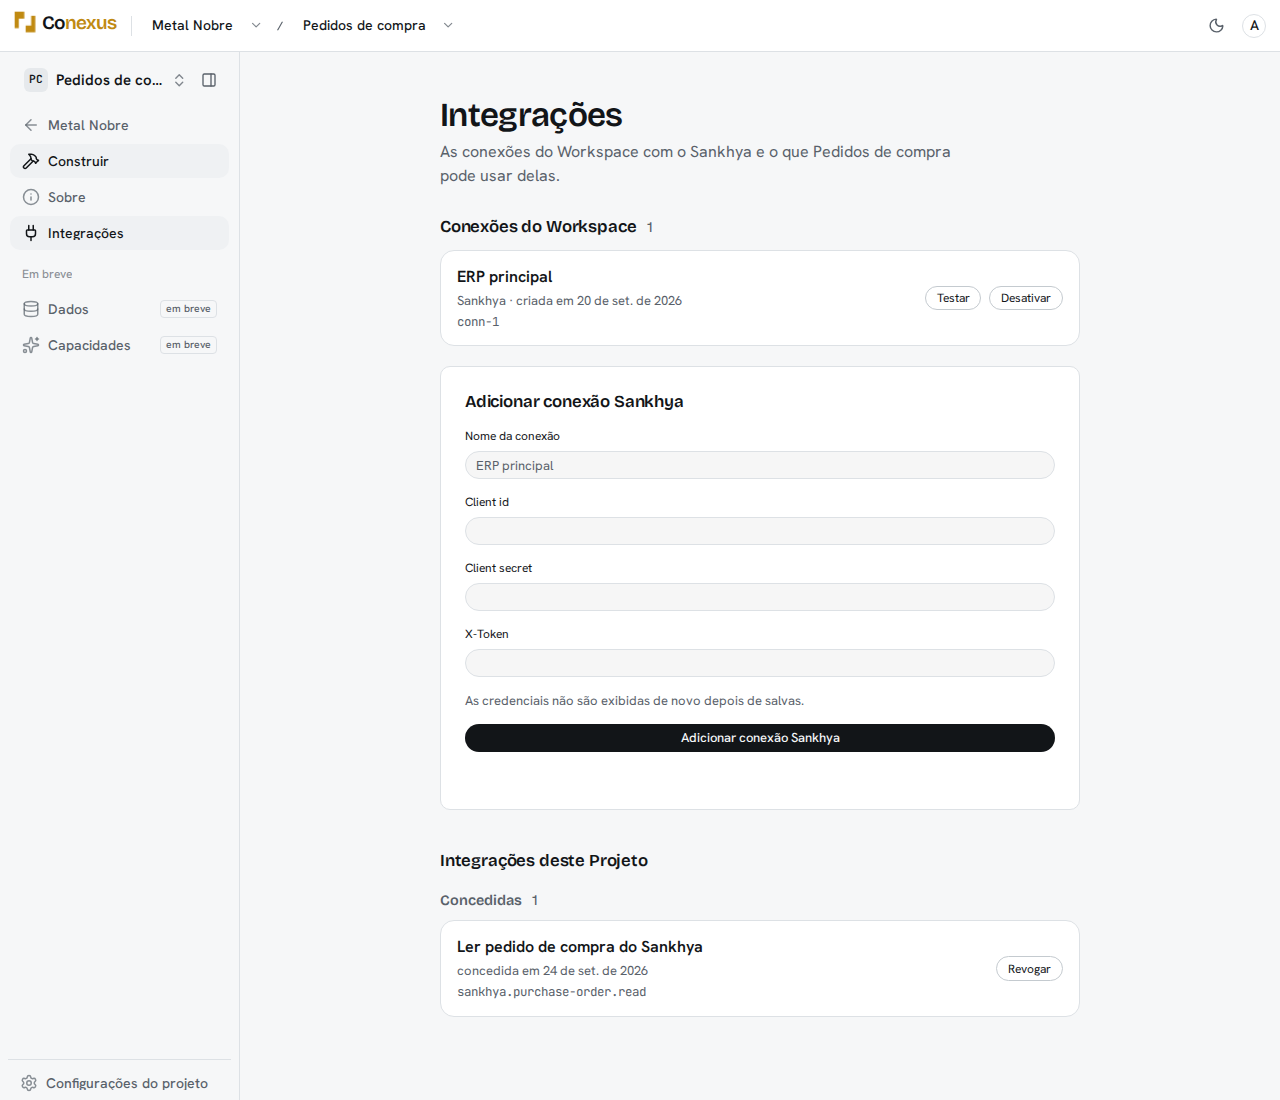
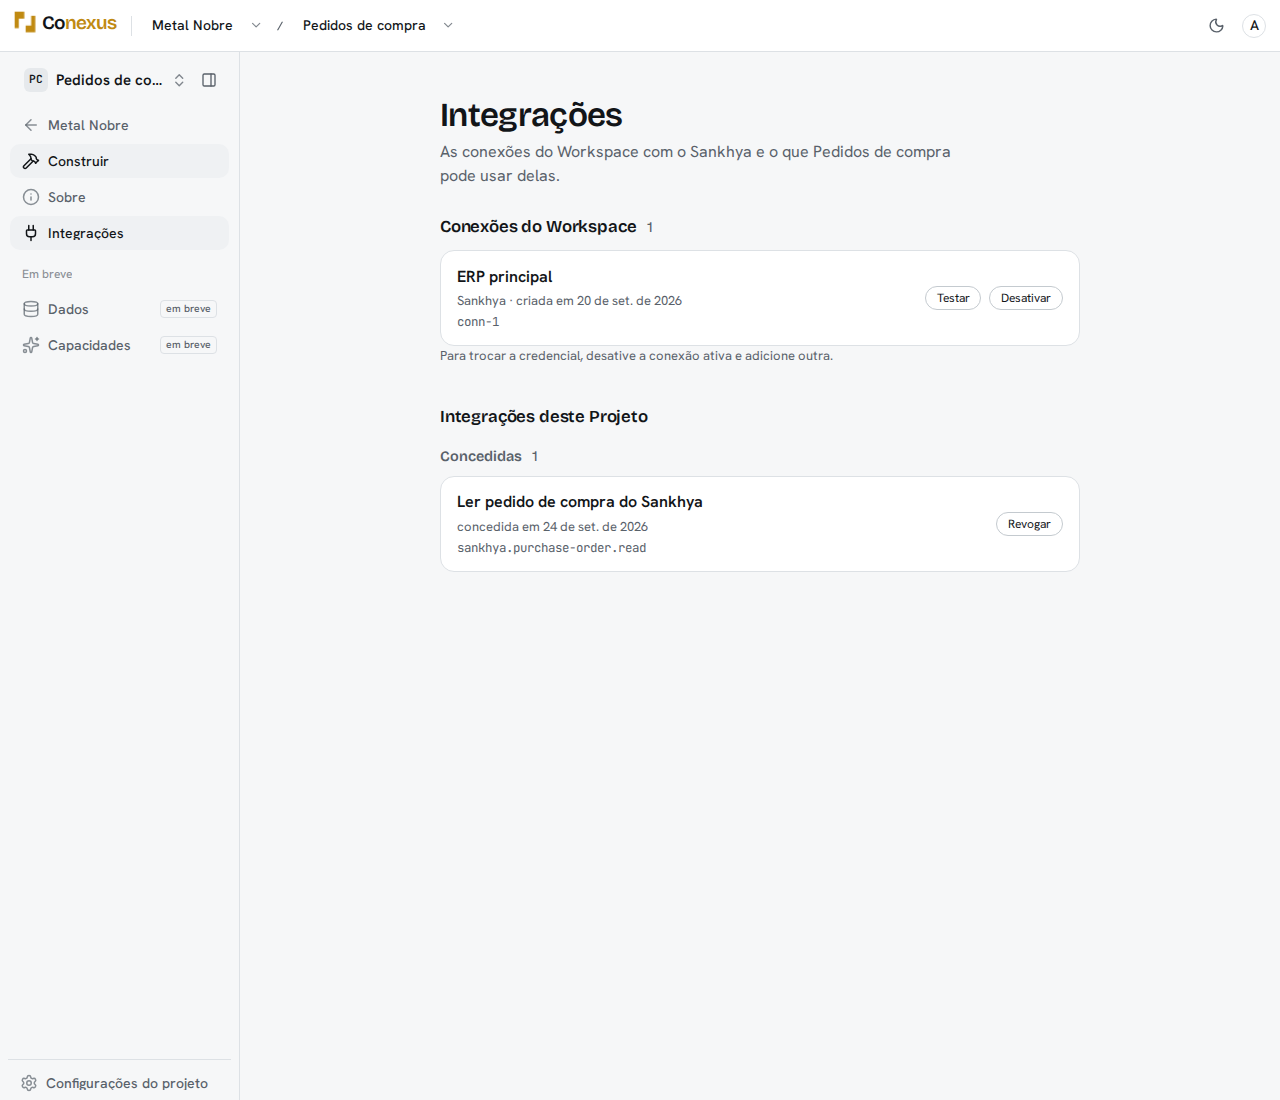
fix(connector): answer a second open Connection with 409 and hide the form while one is open
A second open Sankhya Connection in one Workspace hit the connection_open_key
index and surfaced as a 500. The route now maps it to the connector conflict,
and the screen offers the form only when no Connection is open: rotating a
credential is disable plus create.

Claude-Session: https://claude.ai/code/session_01DvHJXhmaVp1AfNyGBLyCdQ

diff --git a/apps/hub/src/connectors/model.ts b/apps/hub/src/connectors/model.ts
@@ -54,5 +54,9 @@ export const isConnectorConnectionNotAvailable = (error: unknown): boolean =>
   typeof error === 'object' && error !== null && 'code' in error && error.code === 'P0002' &&
   'message' in error && error.message === 'CONNECTOR_CONNECTION_NOT_AVAILABLE'
 
+// A retry that differs from the stored row, or a second open Connection of the same Connector in one
+// Workspace (the partial unique index connection_open_key).
 export const isConnectorConnectionConflict = (error: unknown): boolean =>
-  typeof error === 'object' && error !== null && 'message' in error && error.message === 'CONNECTOR_CONNECTION_CONFLICT'
+  typeof error === 'object' && error !== null && (
+    ('message' in error && error.message === 'CONNECTOR_CONNECTION_CONFLICT') ||
+    ('code' in error && error.code === '23505' && 'constraint' in error && error.constraint === 'connection_open_key'))

diff --git a/apps/web/src/features/connector/connector-api.ts b/apps/web/src/features/connector/connector-api.ts
@@ -94,7 +94,7 @@ export function isConnectorAdminRequired(error: unknown): boolean {
 
 export function workspaceConnectionsMessage(error: unknown): string {
   if (!(error instanceof ConnectorRequestError)) return 'A alteração não foi confirmada.'
-  if (error.status === 409) return 'Já existe uma conexão com este identificador e outros dados.'
+  if (error.status === 409) return 'Este Workspace já tem uma conexão Sankhya ativa.'
   if (error.status === 422) return 'As credenciais informadas não foram aceitas.'
   return 'A alteração não foi confirmada.'
 }

diff --git a/apps/web/src/features/connector/components/integrations-screen.tsx b/apps/web/src/features/connector/components/integrations-screen.tsx
@@ -80,7 +80,11 @@ function ConnectionsSection({ workspaceId }: Readonly<{ workspaceId: string }>) 
         ))}
       </ul>
     )}
-    <CreateConnectionForm workspaceId={workspaceId} onCreated={refresh} />
+    {connections.data.some((connection) => connection.connectorId === 'sankhya' && !connection.disabledAt) ? (
+      <p className="cx-field-hint">Para trocar a credencial, desative a conexão ativa e adicione outra.</p>
+    ) : (
+      <CreateConnectionForm workspaceId={workspaceId} onCreated={refresh} />
+    )}
   </section>
 }
 
